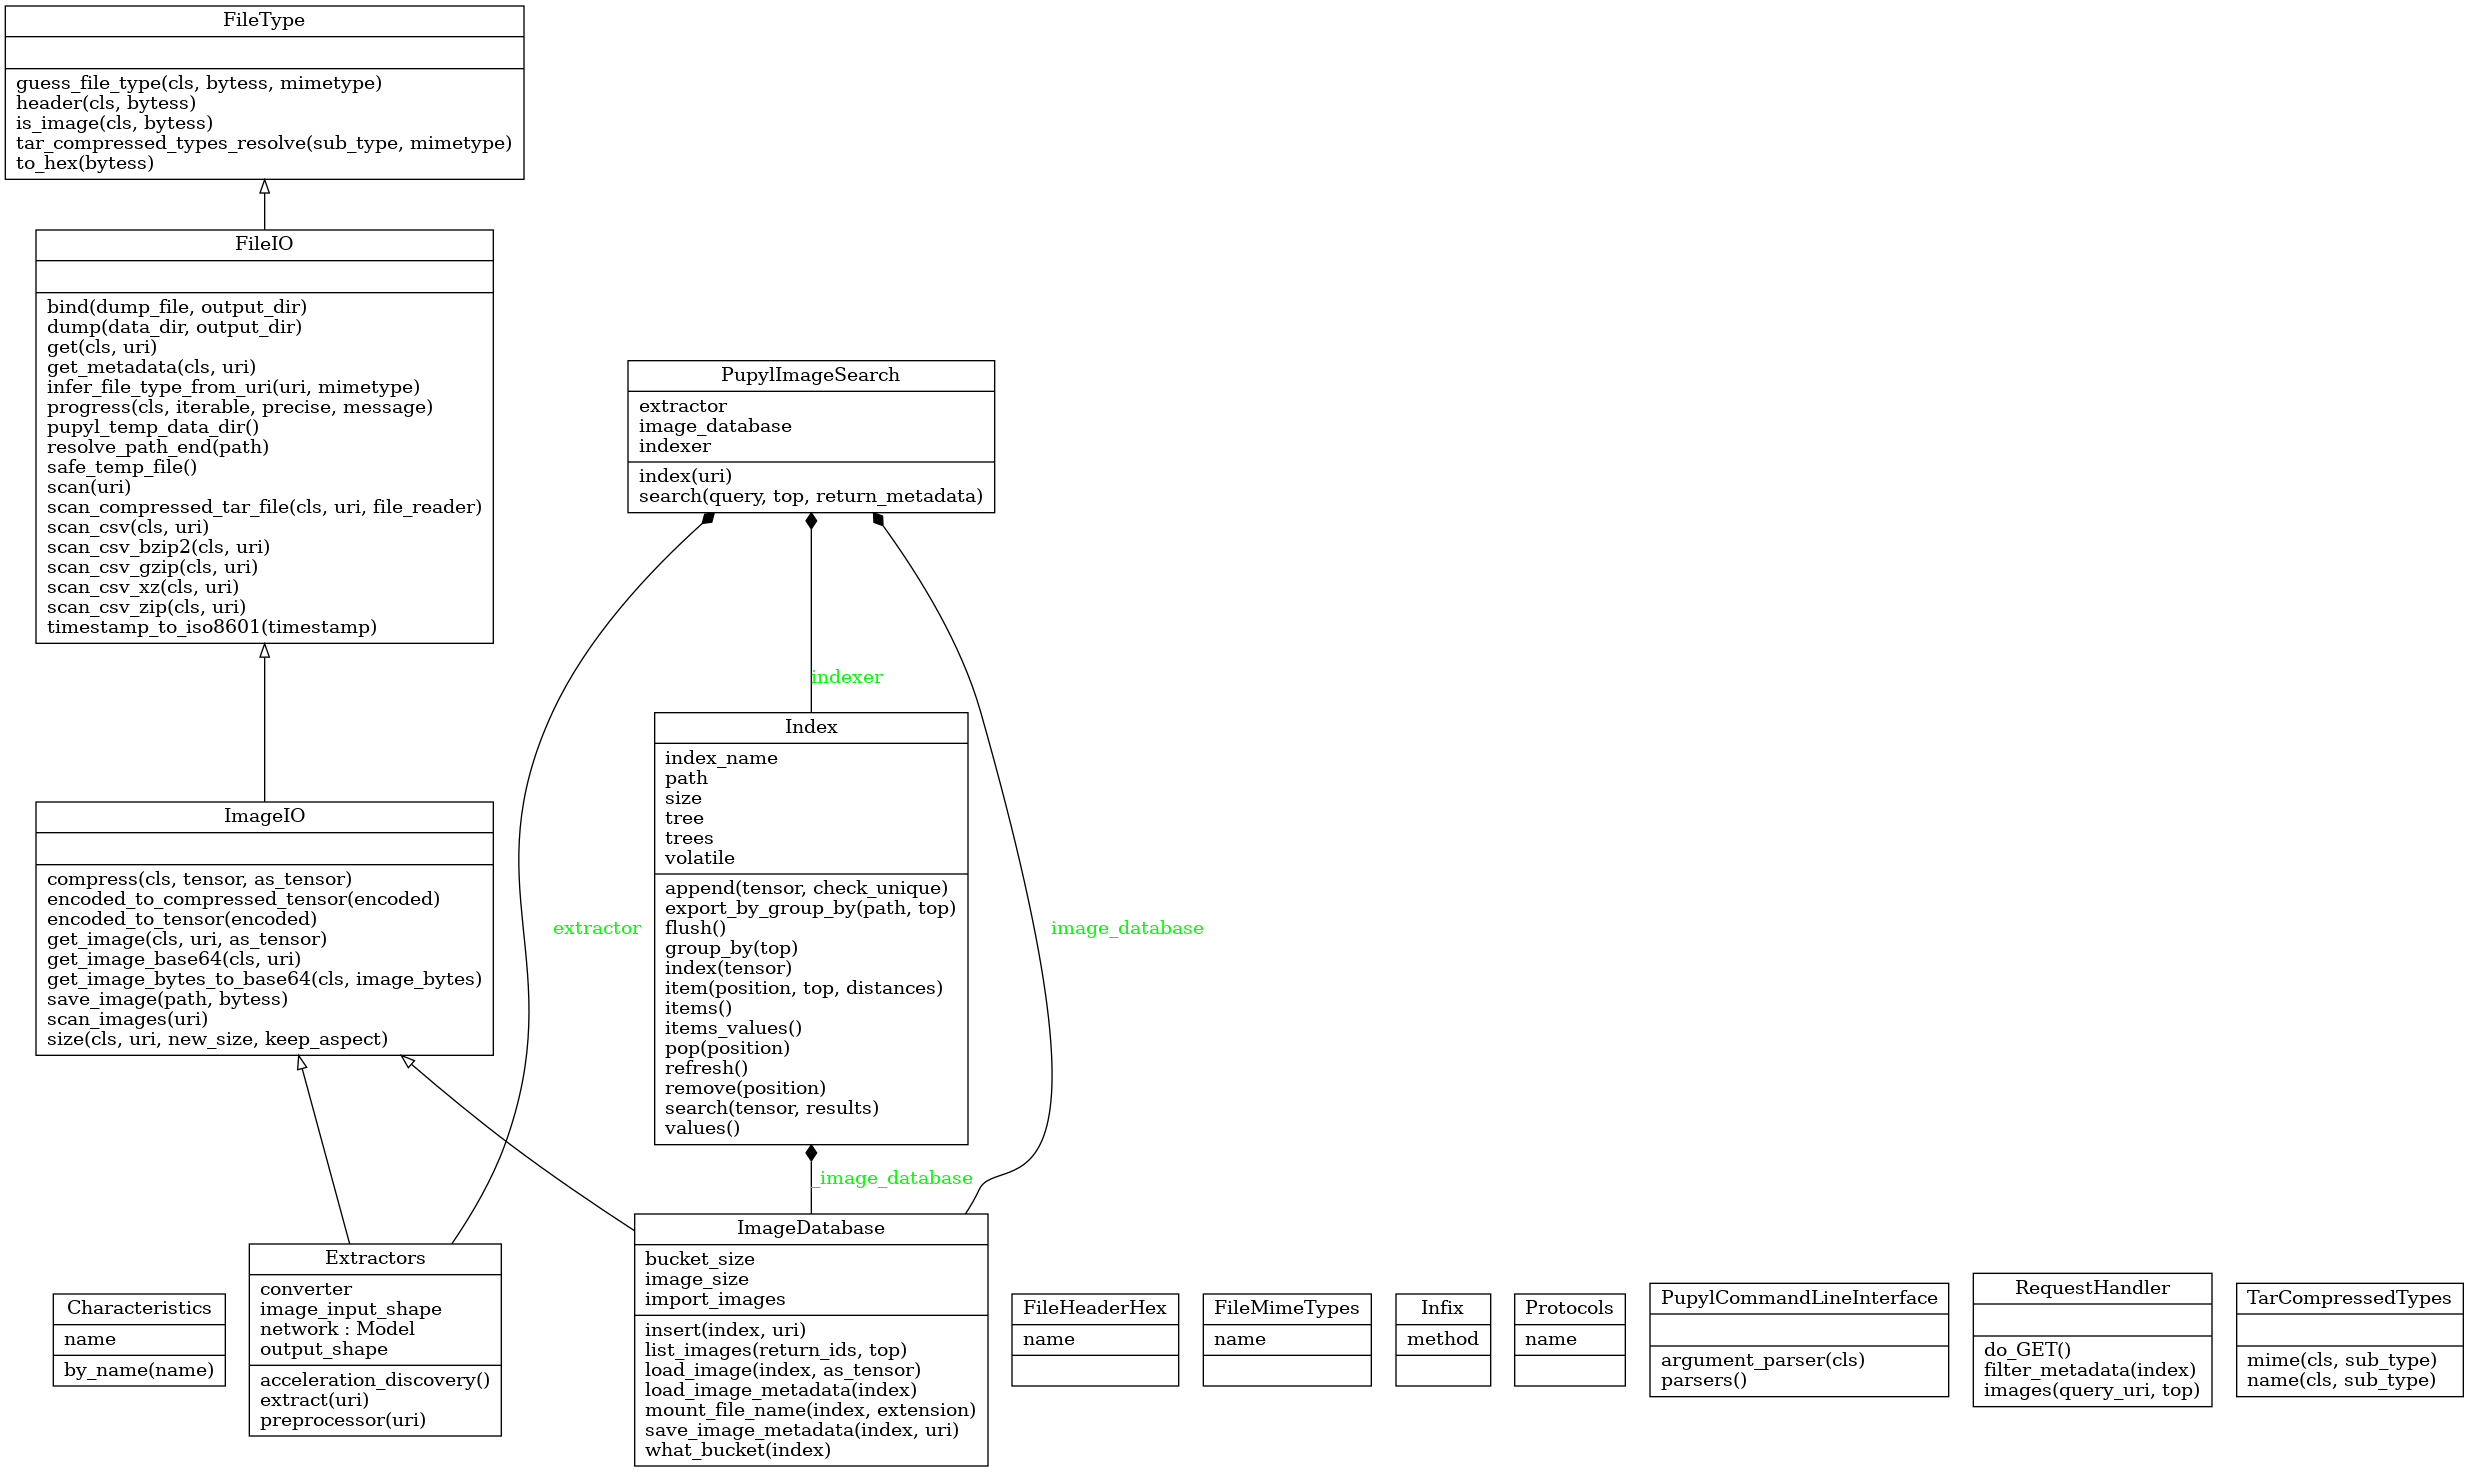
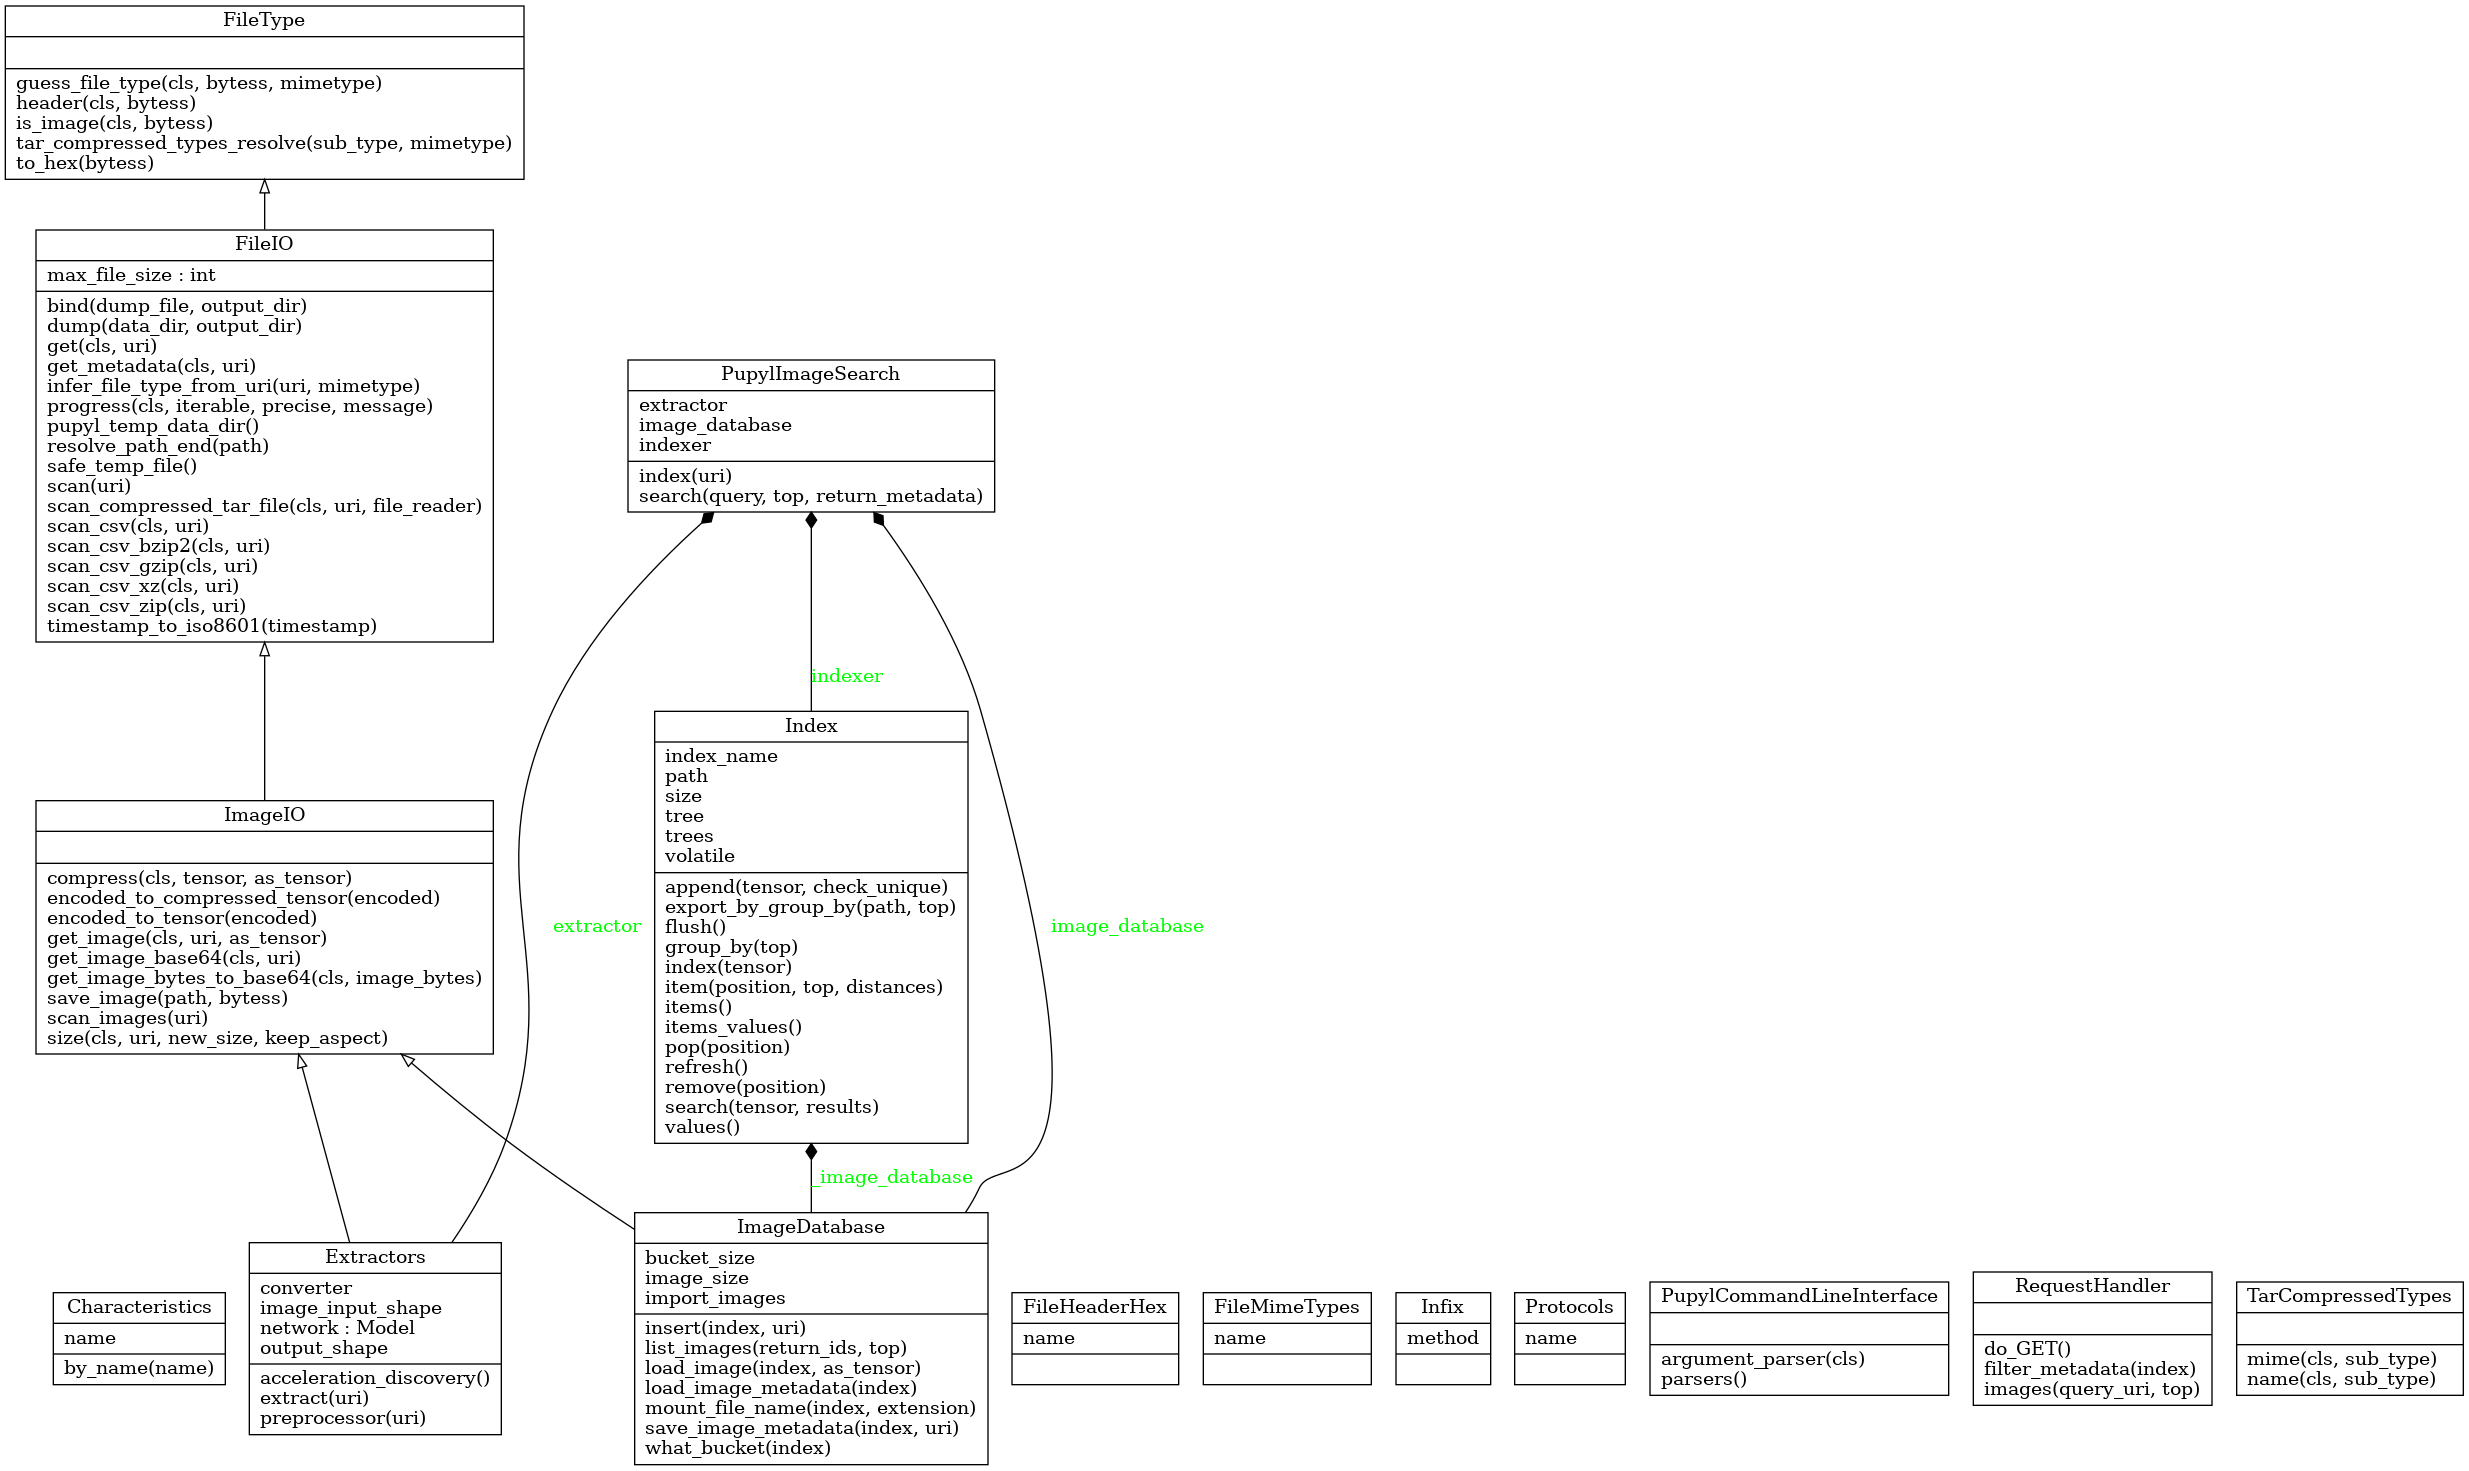
🐛 Fixing memory leak when trying to load huge files (#106)

diff --git a/pupyl/duplex/file_io.py b/pupyl/duplex/file_io.py
@@ -52,6 +52,9 @@ class FileIO(FileType):
     remote or local files, progress bars, file metadata, among others.
     """
 
+    # Maximum file size supported, in GBs
+    max_file_size = 8
+
     @staticmethod
     def pupyl_temp_data_dir():
         """Returns a safe data directory."""
@@ -83,6 +86,8 @@ class FileIO(FileType):
         bytes:
             With image binary information.
         """
+        file_size = 0
+
         try:
             if kwargs.get('headers'):
                 request = Request(url, headers=kwargs['headers'])
@@ -90,10 +95,22 @@ class FileIO(FileType):
                 request = url
 
             with urlopen(request, timeout=1) as ffile:
-                if kwargs.get('info'):
-                    return ffile.info()
+                file_info = ffile.info()
+                content_length = file_info.get_all('Content-Length')
+
+                if content_length:
+                    file_size = int(int(content_length[0]) / (2 ** 30))
+
+                if file_size >= cls.max_file_size:
+                    print(
+                        f'File {url} is bigger than {cls.max_file_size} GB. '
+                        'Cowardly refusing to read it.'
+                    )
                 else:
-                    return ffile.read()
+                    if kwargs.get('info'):
+                        return file_info
+                    else:
+                        return ffile.read()
         except HTTPError as http_error:
             print(
                 f'URL {url} returned HTTP error {http_error.code}, '
@@ -105,8 +122,8 @@ class FileIO(FileType):
                     url, headers={'User-Agent': 'Mozilla/5.0'}
                 )
 
-    @staticmethod
-    def _get_local(path):
+    @classmethod
+    def _get_local(cls, path):
         """Loads a local file returning its bytes.
 
         Parameters
@@ -119,8 +136,16 @@ class FileIO(FileType):
         bytes:
             With file binary information contained on the file.
         """
-        with open(path, 'rb') as ffile:
-            return ffile.read()
+        file_size = int(os.path.getsize(path) / (2 ** 30))
+
+        if file_size >= cls.max_file_size:
+            print(
+                f'File {path} is bigger than {cls.max_file_size} GB. '
+                'Cowardly refusing to read it.'
+            )
+        else:
+            with open(path, 'rb') as ffile:
+                return ffile.read()
 
     @classmethod
     def get(cls, uri):

diff --git a/tests/test_pupyl.py b/tests/test_pupyl.py
@@ -156,3 +156,21 @@ def test_search_returning_metadata():
         'original_file_name': '500863916_bdd4b8cc5a.jpg',
         'original_file_size': '25K',
         'original_path': 'https://static.flickr.com/210'}
+
+
+def test_pupyl_demo():
+    """Unit test for the index and search process describe on README.md"""
+    with TemporaryDirectory() as temp_dir:
+        test_pupyl = PupylImageSearch(data_dir=temp_dir)
+
+        test_pupyl.index(
+            'https://github.com/policratus/pupyl'
+            '/raw/master/samples/images.tar.xz'
+        )
+
+        test_query_image = 'https://images.unsplash.com/' + \
+            'photo-1520763185298-1b434c919102?w=224&q=70'
+
+        test_results = [*test_pupyl.search(test_query_image)]
+
+        assert test_results

diff --git a/tests/test_file_io.py b/tests/test_file_io.py
@@ -153,6 +153,24 @@ def test__get_url_forbidden():
     assert isinstance(FileIO._get_url(TEST_URL_FORBIDDEN), bytes)
 
 
+def test__get_url_large_file():
+    """Unit test for method _get_url, large file case."""
+    test_url_big_file = 'https://speed.hetzner.de/10GB.bin'
+
+    assert FileIO._get_url(test_url_big_file) is None
+
+
+def test__get_local_big_file():
+    """Unit test for method _get_local, big file case."""
+    with tempfile.NamedTemporaryFile() as temp_file:
+        while int(
+            os.path.getsize(temp_file.name) / (2 ** 30)
+        ) < FileIO.max_file_size:
+            temp_file.write(b'a' * (2 ** 16))
+
+        assert FileIO._get_local(temp_file.name) is None
+
+
 def test_get_http():
     """
     Unit test for get method, http case
